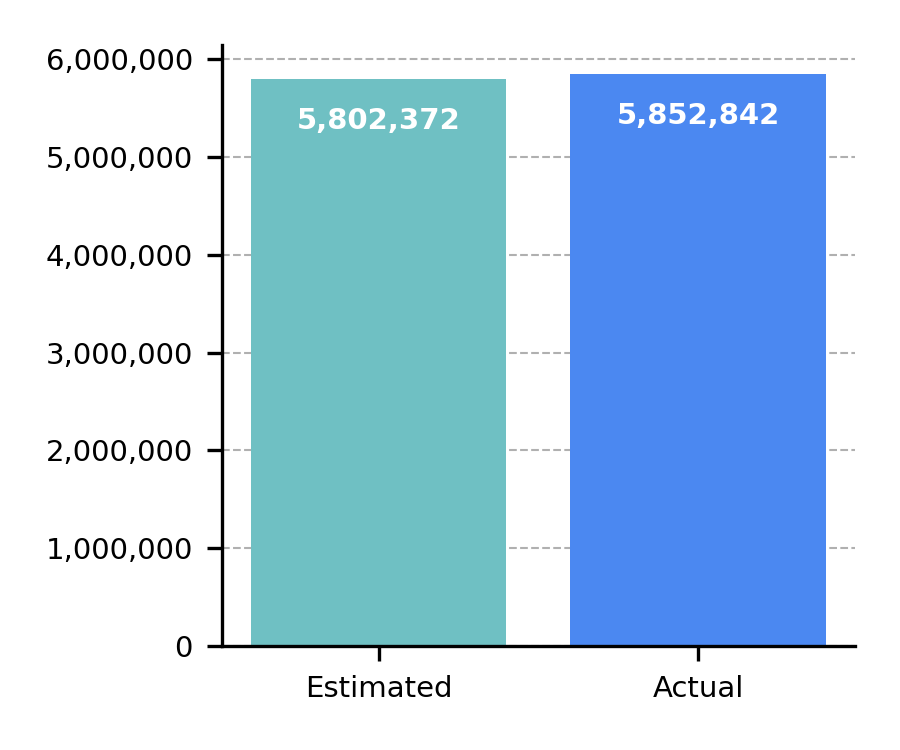
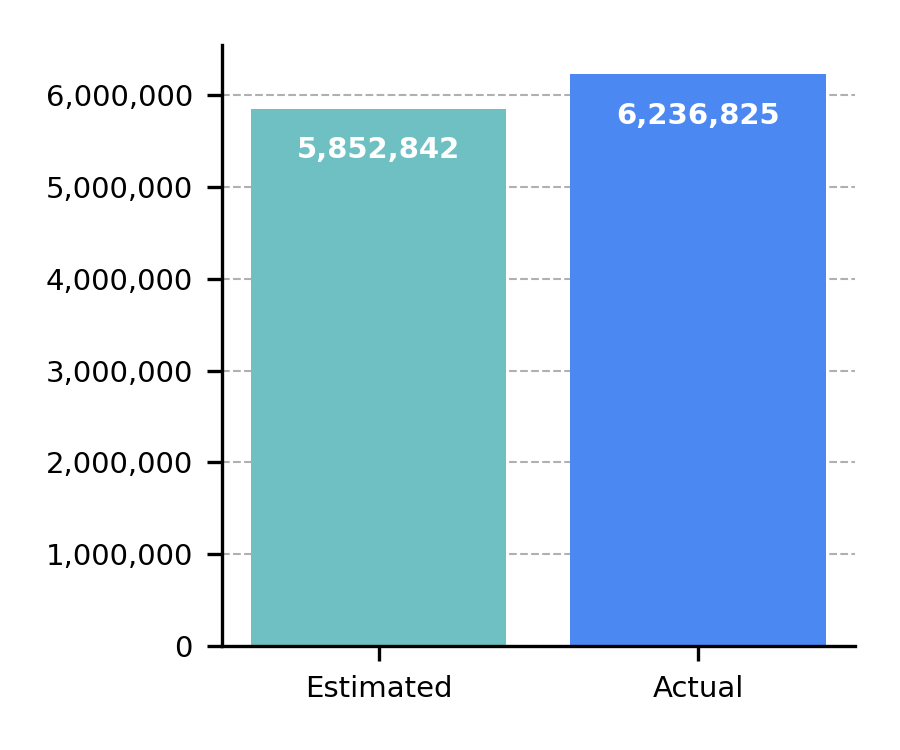
Update after testing with multiple files. Remove redundant slide and table rows post-automation

diff --git a/streamlitapp.py b/streamlitapp.py
@@ -15,6 +15,8 @@ import base64
 import matplotlib.pyplot as plt
 from datetime import datetime
 from pptx.util import Inches
+from pptx.oxml import parse_xml
+from pptx.oxml.ns import qn
 
 load_dotenv()
 api_key = os.getenv('OPENAI_API_KEY')
@@ -29,7 +31,7 @@ class PowerPointProcessor:
         self.pptx_file = pptx_file
         self.prs = Presentation(pptx_file)
 
-    def replace_placeholders(self, replacements, output_pptx):
+    def replace_placeholders(self, replacements, is_pin, output_pptx):
         """
         Replaces placeholders in a PowerPoint presentation with provided values, including text inside tables.
         
@@ -62,6 +64,20 @@ class PowerPointProcessor:
                                             found_placeholders.add(placeholder)
                                             run.text = run.text.replace(placeholder, str(replacement))
 
+            for shape in slide.shapes:
+                if shape.has_table:
+                    table = shape.table
+                    rows_to_remove = []
+                    for i, row in enumerate(table.rows):
+                        texts = [cell.text.strip() for cell in row.cells]
+                        if all("{" in text and "}" in text for text in texts):  # all look like placeholders
+                            rows_to_remove.append(i)
+
+                    for i in reversed(rows_to_remove):  # delete from bottom up to keep index stable
+                        tbl = table._tbl
+                        tr = tbl.tr_lst[i]
+                        tbl.remove(tr)
+
         try:
             chart_slide = self.prs.slides[8]  # Slide 10
             for shape in chart_slide.shapes:
@@ -75,11 +91,22 @@ class PowerPointProcessor:
         except FileNotFoundError as e:
             print(f"⚠ Image file not found: {e.filename}")    
 
+        if not is_pin:
+            # Delete slides 27, 28, and 29 by index (in reverse order to avoid reindexing issues)
+            for i in [28, 27, 26, 25]:
+                try:
+                    xml_slides = self.prs.slides._sldIdLst
+                    slide_id = xml_slides[i]
+                    xml_slides.remove(slide_id)
+                except IndexError:
+                    print(f"⚠ Slide index {i+1} not found – skipping deletion.")
+
+
         self.prs.save(output_pptx)
 
         # Debugging output
         print(f"Updated presentation saved as: {output_pptx}")
-        print("Placeholders found and replaced:", found_placeholders)
+        print("Placeholders found and replaced")
 
         if not found_placeholders:
             print("⚠ No placeholders were replaced. Check if placeholders in the PPT match replacements keys.")
@@ -92,6 +119,7 @@ class DataExtractor:
         self.media_plan_file = media_plan_file
         self.prompt_file = prompt_file
         self.replacements = {}
+        self.is_pin =True
 
     def open_file(self, filepath):
         with open(filepath, 'r', encoding='utf-8') as infile:
@@ -150,7 +178,7 @@ class DataExtractor:
     def extract_values(self):
         meta = pd.read_excel(self.meta_file)
         pinterest = pd.read_csv(self.pinterest_file) if self.pinterest_file else None
-        media_plan = pd.read_excel(self.media_plan_file, sheet_name="Media Plan - V3 ", skiprows=7, skipfooter=3) if self.media_plan_file else None
+        media_plan = pd.read_excel(self.media_plan_file, skiprows=7, skipfooter=3) if self.media_plan_file else None
         prompt = self.open_file(self.prompt_file) if self.prompt_file else ""
 
         # ========== Meta data =============
@@ -236,6 +264,7 @@ class DataExtractor:
 
  
         else:
+            self.is_pin = False
             net_spend_pin = gross_spend_pin = impressions_pin = clicks_pin = CTR_pin  = 0
             net_CPM_pin = brand_revenue_pin = brand_ROAS_pin =  brand_instore_revenue_pin =  brand_online_revenue_pin = brand_ROI_pin = 0
             pin_input = 'None'
@@ -293,15 +322,82 @@ class DataExtractor:
 
         # ========== Media Plan Estimates =============
         if media_plan is not None:
+            def parse_date_range(date_text):
+                """
+                Parse various date range formats including:
+                - DD/MM/YYYY - DD/MM/YYYY
+                - DD Month - DD Month YYYY
+                - DDth Month - DDth Month YYYY
+                """
+                # Try standard format first: DD/MM/YYYY - DD/MM/YYYY
+                standard_ranges = re.findall(r'(\d{1,2}/\d{1,2}/\d{4})\s*-\s*(\d{1,2}/\d{1,2}/\d{4})', date_text)
+                if standard_ranges:
+                    return [(datetime.strptime(start, "%d/%m/%Y"), datetime.strptime(end, "%d/%m/%Y")) 
+                            for start, end in standard_ranges]
+                
+                # Try format: DDth Month - DDth Month YYYY
+                # This pattern captures dates like "10th December - 23rd December 2024"
+                month_names = "January|February|March|April|May|June|July|August|September|October|November|December"
+                pattern = rf'(\d{{1,2}}(?:st|nd|rd|th)?\s+(?:{month_names}))\s*-\s*(\d{{1,2}}(?:st|nd|rd|th)?\s+(?:{month_names})(?:\s+\d{{4}})?)'
+                
+                textual_ranges = re.findall(pattern, date_text, re.IGNORECASE)
+                
+                if not textual_ranges:
+                    return []
+                
+                parsed_dates = []
+                for start_date, end_date in textual_ranges:
+                    # Check if year is in end_date, if not try to extract from the original text
+                    if not re.search(r'\d{4}', end_date):
+                        # Try to find a year in the original text
+                        year_match = re.search(r'\b(\d{4})\b', date_text)
+                        year = year_match.group(1) if year_match else str(datetime.now().year)
+                        # Add year to both start and end dates
+                        start_date = f"{start_date} {year}"
+                        end_date = f"{end_date}"  # Year should already be included
+                    
+                    # Clean up ordinal indicators (st, nd, rd, th)
+                    start_date = re.sub(r'(\d+)(st|nd|rd|th)', r'\1', start_date)
+                    end_date = re.sub(r'(\d+)(st|nd|rd|th)', r'\1', end_date)
+                    
+                    try:
+                        # Parse the dates
+                        start_dt = datetime.strptime(start_date, "%d %B %Y")
+                        end_dt = datetime.strptime(end_date, "%d %B %Y")
+                        parsed_dates.append((start_dt, end_dt))
+                    except ValueError as e:
+                        print(f"Error parsing date: {e}, start_date: {start_date}, end_date: {end_date}")
+                        continue
+                
+                return parsed_dates
+
+            # Usage in your existing code
             media_plan = media_plan[['Platform', 'Estimated Impressions', 'Estimated link clicks', 'Estimated Frequency', 'Estimated Reach', 'Gross spend by channel / platform', 'Estimated CTR', 'Net CPM', 'Flight duration']]
             media_plan['Platform'] = media_plan['Platform'].fillna(method='ffill')
             media_plan['Flight duration'] = media_plan['Flight duration'].fillna(method='ffill')
-            media_plan_clean = media_plan.dropna()
-            date_text = str(media_plan_clean['Flight duration'][0])
-            date_ranges = re.findall(r'(\d{1,2}/\d{1,2}/\d{4})\s*-\s*(\d{1,2}/\d{1,2}/\d{4})', date_text)
-            parsed_ranges = [(datetime.strptime(start, "%d/%m/%Y"), datetime.strptime(end, "%d/%m/%Y")) for start, end in date_ranges]
-            latest_range = max(parsed_ranges, key=lambda r: r[1])
-            date_range = f"{latest_range[0].strftime('%d/%m/%Y')} - {latest_range[1].strftime('%d/%m/%Y')}"
+            #media_plan_clean = media_plan.dropna()
+            media_plan_clean = media_plan.dropna(thresh=media_plan.shape[1] - 4 + 1)
+            media_plan_clean = media_plan_clean.map(lambda x: x.strip() if isinstance(x, str) else x)
+
+            try:
+                date_text = str(media_plan_clean['Flight duration'][0])
+                parsed_ranges = parse_date_range(date_text)
+                
+                if parsed_ranges:
+                    latest_range = max(parsed_ranges, key=lambda r: r[1])
+                    # Format for display - you can adjust format as needed
+                    date_range = f"{latest_range[0].strftime('%d/%m/%Y')} - {latest_range[1].strftime('%d/%m/%Y')}"
+                else:
+                    print(f"No valid date ranges found in: '{date_text}'")
+                    # Fallback to original text or current date range
+                    date_range = date_text
+            except Exception as e:
+                print(f"Error processing date range: {e}")
+                # Fallback to current date
+                today = datetime.now()
+                date_range = f"{today.strftime('%d/%m/%Y')} - {today.strftime('%d/%m/%Y')}"
+            
+            # Group calculations
             estimated_impression = media_plan_clean.groupby('Platform')['Estimated Impressions'].sum()
             estimated_clicks = media_plan_clean.groupby('Platform')['Estimated link clicks'].sum()
             estimated_reach = media_plan_clean.groupby('Platform')['Estimated Reach'].sum()
@@ -310,25 +406,42 @@ class DataExtractor:
             est_click_sum = estimated_clicks.sum().astype(int)
             est_reach_sum = float(estimated_reach.sum())
             est_gross_sum = float(estimated_gross_spend.sum())
+            
+            # Meta calculations (always present)
             est_ctr_meta = media_plan_clean[media_plan_clean['Platform'] == 'Meta (Facebook & Instagram)']['Estimated CTR'].iloc[0] * 100
             est_cpm_meta = media_plan_clean[media_plan_clean['Platform'] == 'Meta (Facebook & Instagram)']['Net CPM'].iloc[0]
             est_imp_meta = int(estimated_impression['Meta (Facebook & Instagram)'])
             est_clicks_meta = int(estimated_clicks['Meta (Facebook & Instagram)'])
             est_reach_meta = int(estimated_reach['Meta (Facebook & Instagram)'])
             est_gross_meta = int(estimated_gross_spend['Meta (Facebook & Instagram)'])
-            est_ctr_pin = media_plan_clean[media_plan_clean['Platform'] == 'Pinterest']['Estimated CTR'].iloc[0] * 100
-            est_cpm_pin = media_plan_clean[media_plan_clean['Platform'] == 'Pinterest']['Net CPM'].iloc[0]
-            est_imp_pin = int(estimated_impression['Pinterest'])
-            est_clicks_pin = int(estimated_clicks['Pinterest'])
-            est_reach_pin = int(estimated_reach['Pinterest'])
-            est_gross_pin = int(estimated_gross_spend['Pinterest'])
-
-            est_ctr_sum = (est_ctr_meta + est_ctr_pin) / 2
-            est_cpm_sum = (est_cpm_meta + est_cpm_pin) / 2
+            
+            # Check if Pinterest exists in the Platform column
+            has_pinterest = 'Pinterest' in media_plan_clean['Platform'].values
+            
+            if has_pinterest:
+                # Pinterest calculations if available
+                est_ctr_pin = media_plan_clean[media_plan_clean['Platform'] == 'Pinterest']['Estimated CTR'].iloc[0] * 100
+                est_cpm_pin = media_plan_clean[media_plan_clean['Platform'] == 'Pinterest']['Net CPM'].iloc[0]
+                est_imp_pin = int(estimated_impression['Pinterest'])
+                est_clicks_pin = int(estimated_clicks['Pinterest'])
+                est_reach_pin = int(estimated_reach['Pinterest'])
+                est_gross_pin = int(estimated_gross_spend['Pinterest'])
+                
+                # Calculate average values using both platforms
+                est_ctr_sum = (est_ctr_meta + est_ctr_pin) / 2
+                est_cpm_sum = (est_cpm_meta + est_cpm_pin) / 2
+            else:
+                # Set Pinterest values to 0 if not present
+                est_ctr_pin = est_cpm_pin = 0
+                est_imp_pin = est_clicks_pin = est_reach_pin = est_gross_pin = 0
+                
+                # Use only Meta values for summary calculations
+                est_ctr_sum = est_ctr_meta
+                est_cpm_sum = est_cpm_meta
 
             # Performance vs estimate
-            perc_imp = ((total_impressions - est_imp_sum) / est_imp_sum) * 100
-            perc_clicks = ((total_clicks - est_click_sum) / est_click_sum) * 100
+            perc_imp = ((total_impressions - est_imp_sum) / est_imp_sum) * 100 if est_imp_sum != 0 else 0
+            perc_clicks = ((total_clicks - est_click_sum) / est_click_sum) * 100 if est_click_sum != 0 else 0
 
             # Slide-level data for JSON
 
@@ -356,12 +469,13 @@ class DataExtractor:
         prompt = prompt.replace('<<online_and_instore>>', online_offline_json)
         prompt = prompt.replace('<<audience_data>>', audience_json)
         campaign_commentary = self.gpt4_completion(prompt)                                                                              #Run gpt function and save the output
-        commentary_json = json.loads(campaign_commentary)  
+        commentary_json = json.loads(campaign_commentary)
+        print("Commentary JSON:", commentary_json)  # Debugging output
 
         #=============================================================Call graph plotting function  ==================================================================================
 
-        self.plot_figures(total_impressions, est_imp_sum, "impressions_chart.png")
-        self.plot_figures(total_clicks, est_click_sum, "clicks_chart.png")
+        self.plot_figures(est_imp_sum, total_impressions, "impressions_chart.png")
+        self.plot_figures(est_click_sum, total_clicks, "clicks_chart.png")
 
         #=============================================================replacement dictionary==================================================================================
         self.replacements = {
@@ -490,7 +604,7 @@ class DataExtractor:
                 f"{{p_ROI_{idx}}}": f"{row['Brand_ROI']:.2f}"
 
             })
-        return self.replacements
+        return self.replacements, self.is_pin
 
 st.markdown("""
     <style>
@@ -566,7 +680,7 @@ if "media_plan_file" not in st.session_state:
 st.title("📊 Post-Campaign Report Generator")
 
 st.markdown("""
-Upload your campaign files below. At minimum, a Meta Excel/csv file is required.
+Upload your campaign files below. At minimum, a Meta Excel/csv file is required. Ensure data columns align to column name requirements
 """)
 
 # Handle file uploads with unique keys that change when reset is pressed
@@ -599,7 +713,7 @@ col1, col2, col3, col4 = st.columns(4)
 with col1:
     if st.button("Generate PowerPoint Report"):
         if not st.session_state.meta_file:
-            st.error("Please upload at least Meta file, Prompt file, and PowerPoint template.")
+            st.error("Please upload at least a Meta file.")
         else:
             with tempfile.TemporaryDirectory() as tmpdir:
                 # Save uploaded files temporarily
@@ -638,11 +752,11 @@ with col1:
                 # Run processing
                 with st.spinner("⏳ Generating your PowerPoint report..."):
                     extractor = DataExtractor(meta_path, pin_path, media_path, prompt_path)
-                    replacements = extractor.extract_values()
+                    replacements, is_pin = extractor.extract_values()
 
                     output_path = os.path.join(tmpdir, "automated_presentation.pptx")
                     ppt = PowerPointProcessor(ppt_template_path)
-                    ppt.replace_placeholders(replacements, output_path)
+                    ppt.replace_placeholders(replacements, is_pin, output_path)
 
                 # Download output
                 with open(output_path, "rb") as file:
